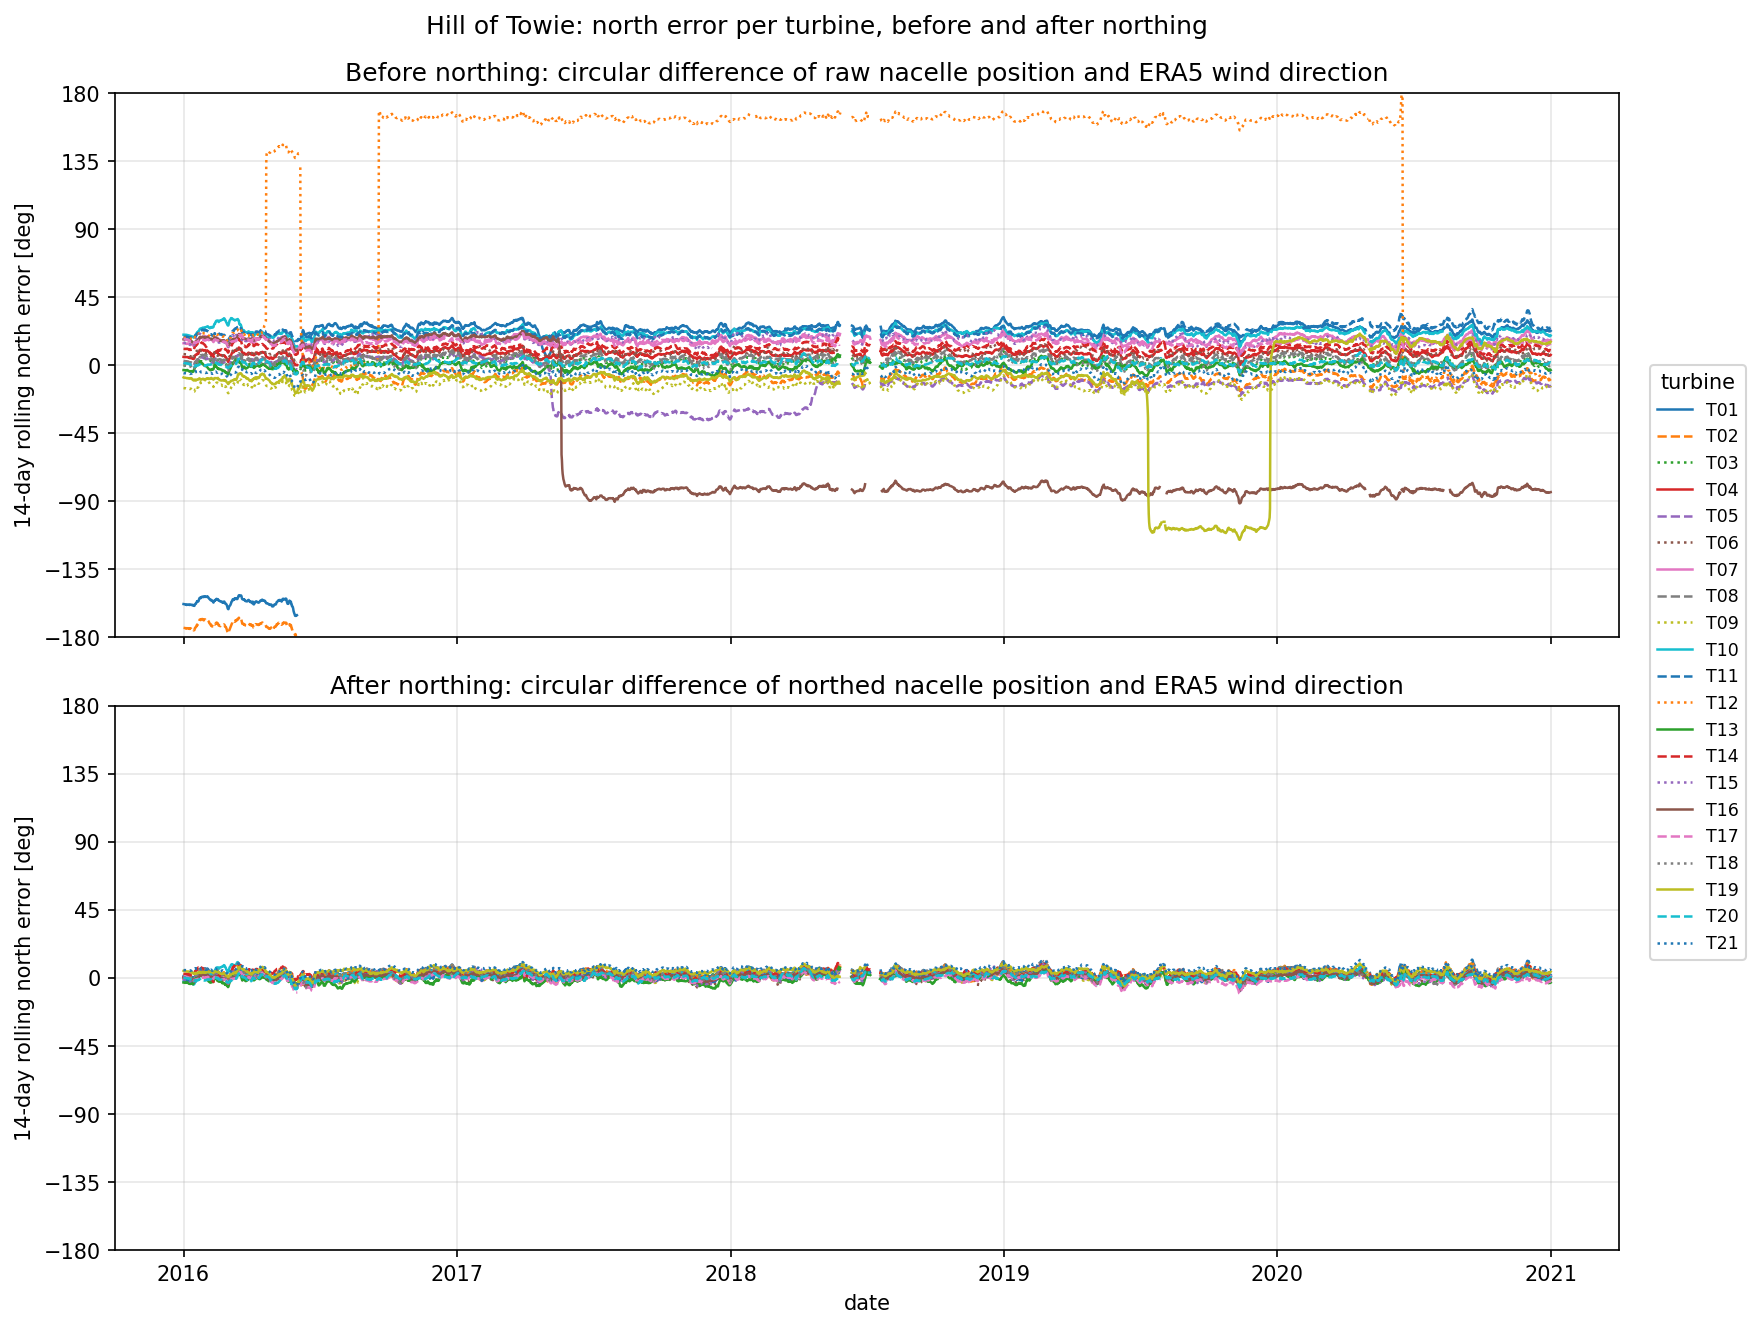
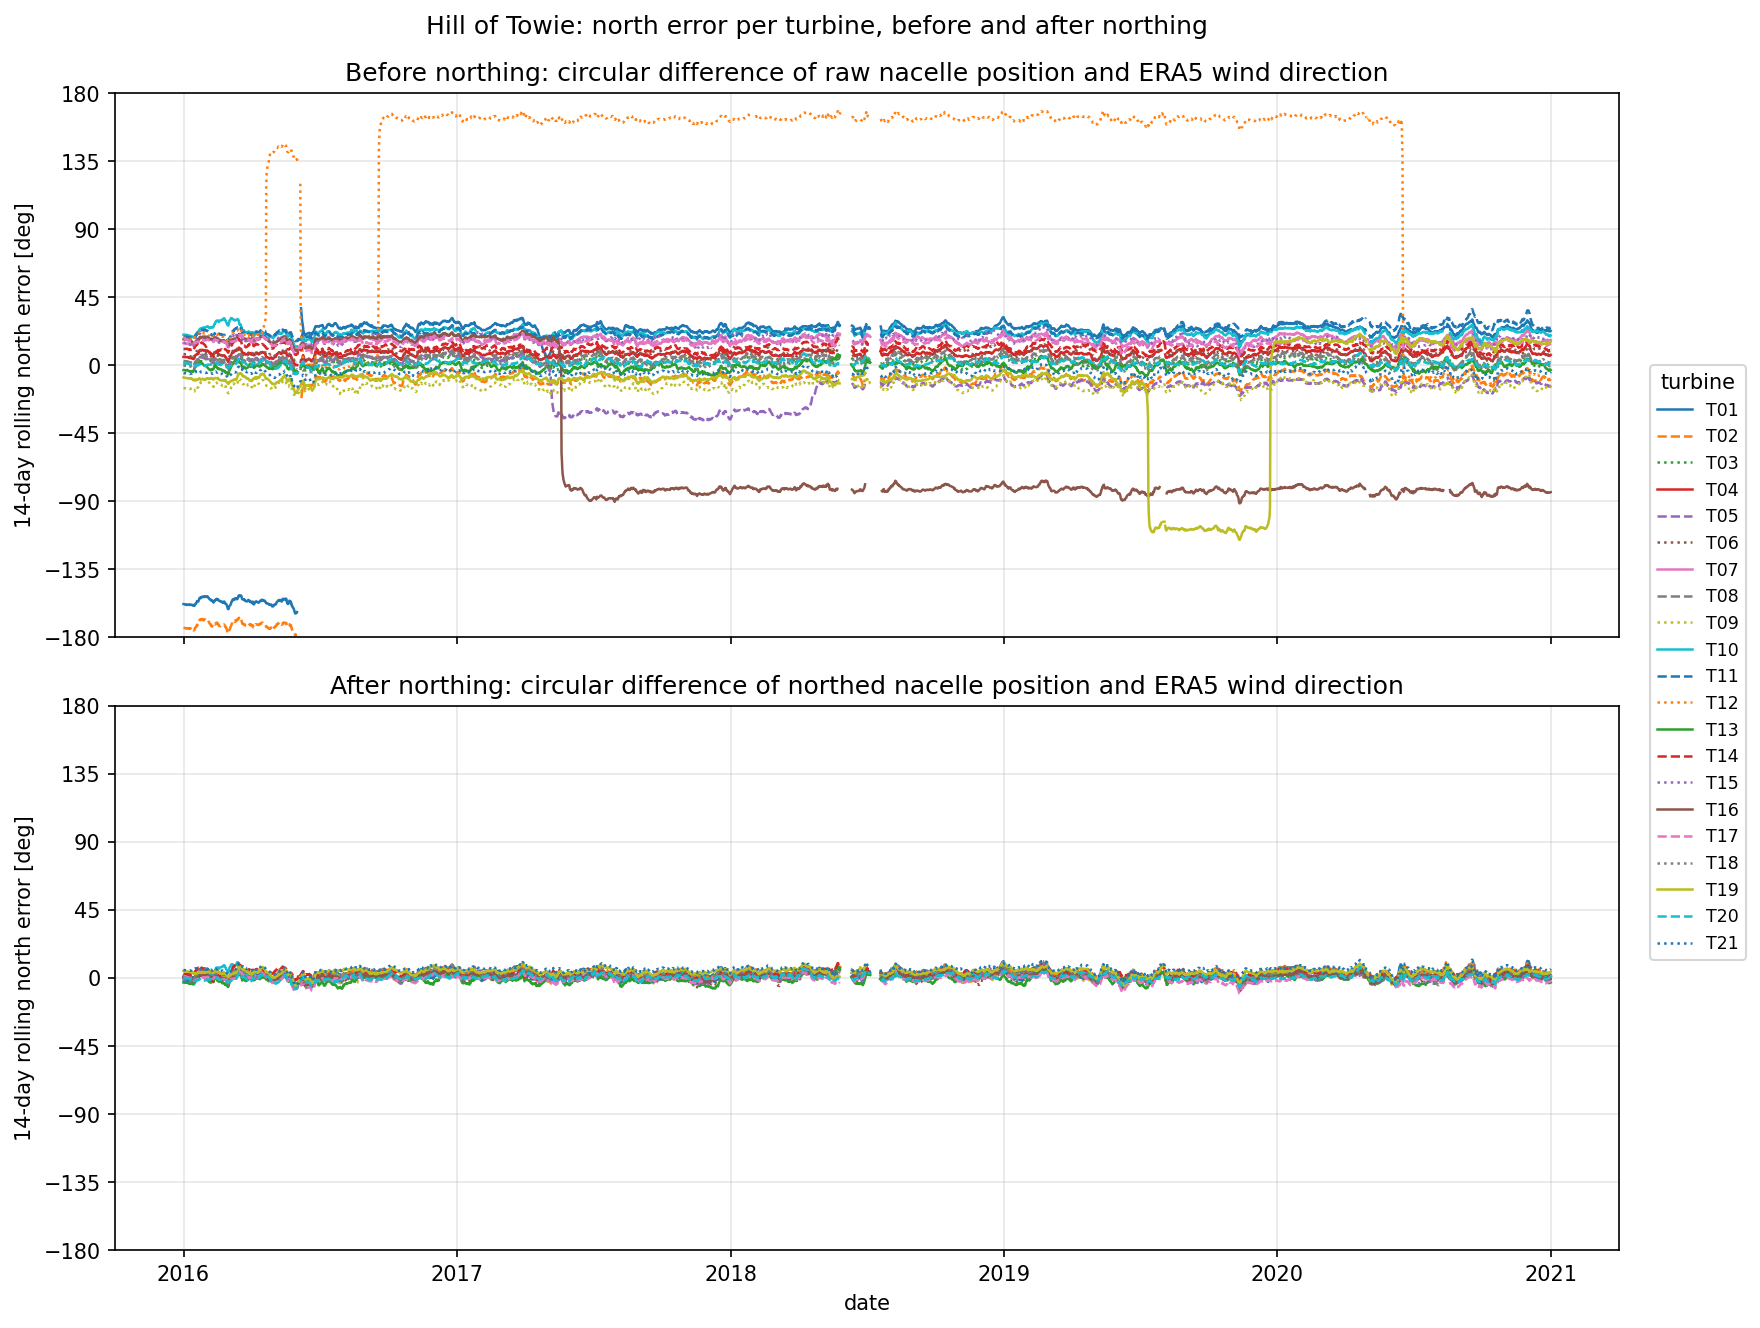
Roll the northing figure with an exact circular median over 14 days
rolling_circ_median_approx takes the median of sin and cos separately, which
can produce angles in no sample when a turbine steps by about 180 deg (T01,
June 2016). Evaluate circ_median over each 14-day window instead, twice a day.

diff --git a/benchmarking/baselines/study_northing_doc_plot.py b/benchmarking/baselines/study_northing_doc_plot.py
@@ -23,7 +23,7 @@ import pandas as pd
 from benchmarking.baselines.study_northing_degradation import load_north_table_yaml
 from benchmarking.baselines.study_wake_nadir_golden import NORTHING_DIR, hot_inputs
 from benchmarking.diagnostics.style import apply_grid, save_fig, series_style
-from wind_up.circular_math import circ_diff, rolling_circ_median_approx
+from wind_up.circular_math import circ_diff, circ_median
 from wind_up.northing import apply_north_table
 
 logger = logging.getLogger("northing_doc_plot")
@@ -36,17 +36,22 @@ WINDOW = ("2016-01-01", "2021-01-01")
 def rolling_error(
     direction: np.ndarray, *, reference: np.ndarray, usable: np.ndarray, index: pd.DatetimeIndex
 ) -> pd.Series:
-    """Return the 14-day centred rolling circular median of ``circ_diff(direction, reference)`` over ``usable`` rows."""
-    rolling_days = 14
+    """Return the 14-day centred rolling circular median of ``circ_diff(direction, reference)`` over ``usable`` rows.
+
+    Evaluated twice a day; a window with fewer than a third of its rows usable gives NaN.
+    """
     rows_per_day = 144
-    error = pd.Series(np.where(usable, circ_diff(direction, reference), np.nan), index=index)
-    return rolling_circ_median_approx(
-        error,
-        window=rolling_days * rows_per_day,
-        min_periods=rolling_days * rows_per_day // 3,
-        center=True,
-        range_360=False,
-    )
+    half_window = 7 * rows_per_day
+    step = rows_per_day // 2
+    error = np.where(usable, circ_diff(direction, reference), np.nan)
+    finite = np.concatenate([[0], np.cumsum(np.isfinite(error))])
+    centres = np.arange(0, len(error), step)
+    values = np.full(len(centres), np.nan)
+    for k, centre in enumerate(centres):
+        lo, hi = max(centre - half_window, 0), min(centre + half_window, len(error))
+        if finite[hi] - finite[lo] >= 2 * half_window // 3:
+            values[k] = circ_median(error[lo:hi], range_360=False)
+    return pd.Series(values, index=index[centres])
 
 
 def main() -> None:
@@ -65,11 +70,10 @@ def main() -> None:
         colour, dash = series_style(position)
         for ax, direction in zip(axes, (raw, northed), strict=True):
             error = rolling_error(direction, reference=reference, usable=inputs["usable"][turbine], index=index)
-            sampled = error.iloc[::72]  # twice a day is plenty for a 14-day rolling line
-            values = sampled.to_numpy()
+            values = error.to_numpy()
             wrap_deg = 180.0
             values[1:][np.abs(np.diff(values)) > wrap_deg] = np.nan  # break the line where it wraps
-            ax.plot(sampled.index, values, color=colour, linestyle=dash, linewidth=1.2, label=turbine)
+            ax.plot(error.index, values, color=colour, linestyle=dash, linewidth=1.2, label=turbine)
         logger.info("%s done", turbine)
 
     fig.suptitle("Hill of Towie: north error per turbine, before and after northing")
